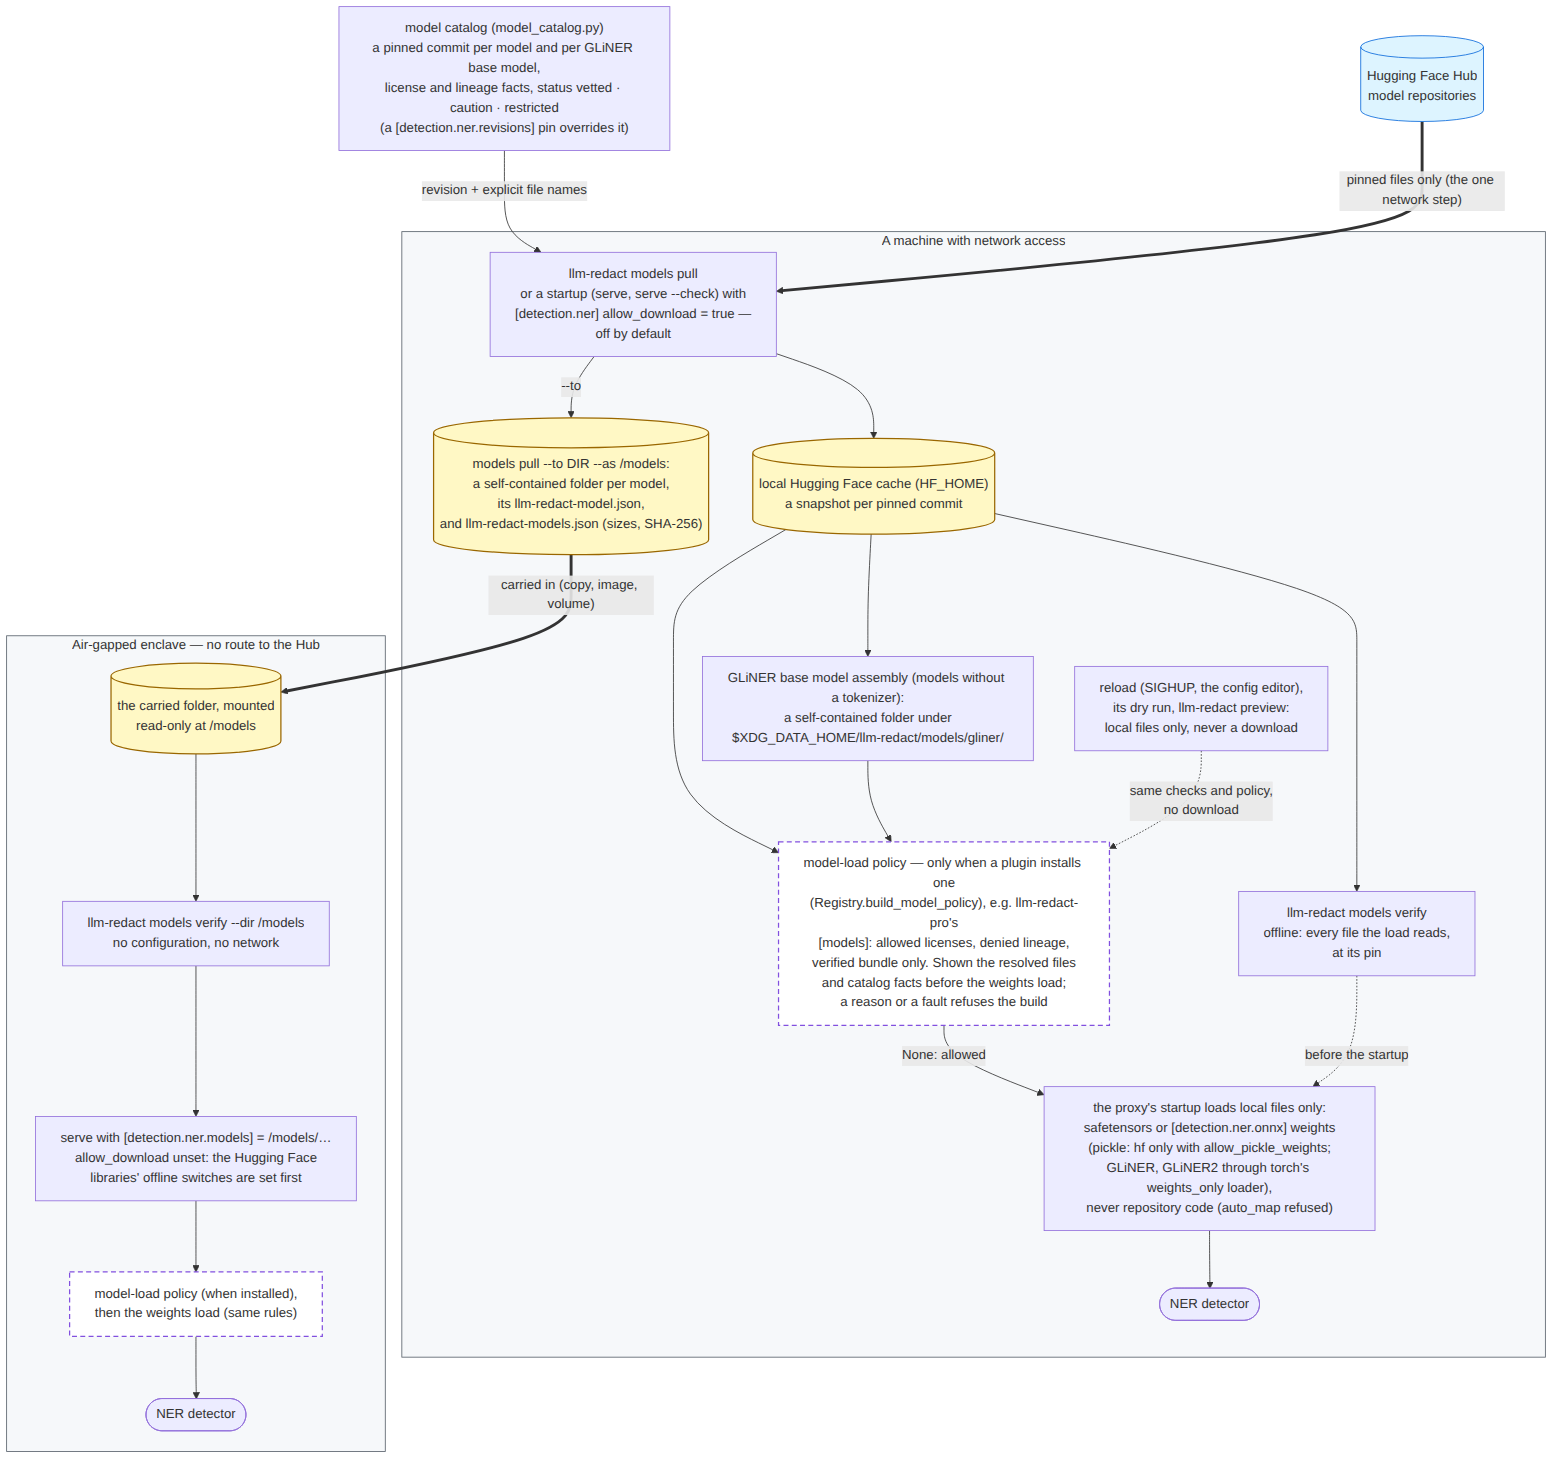
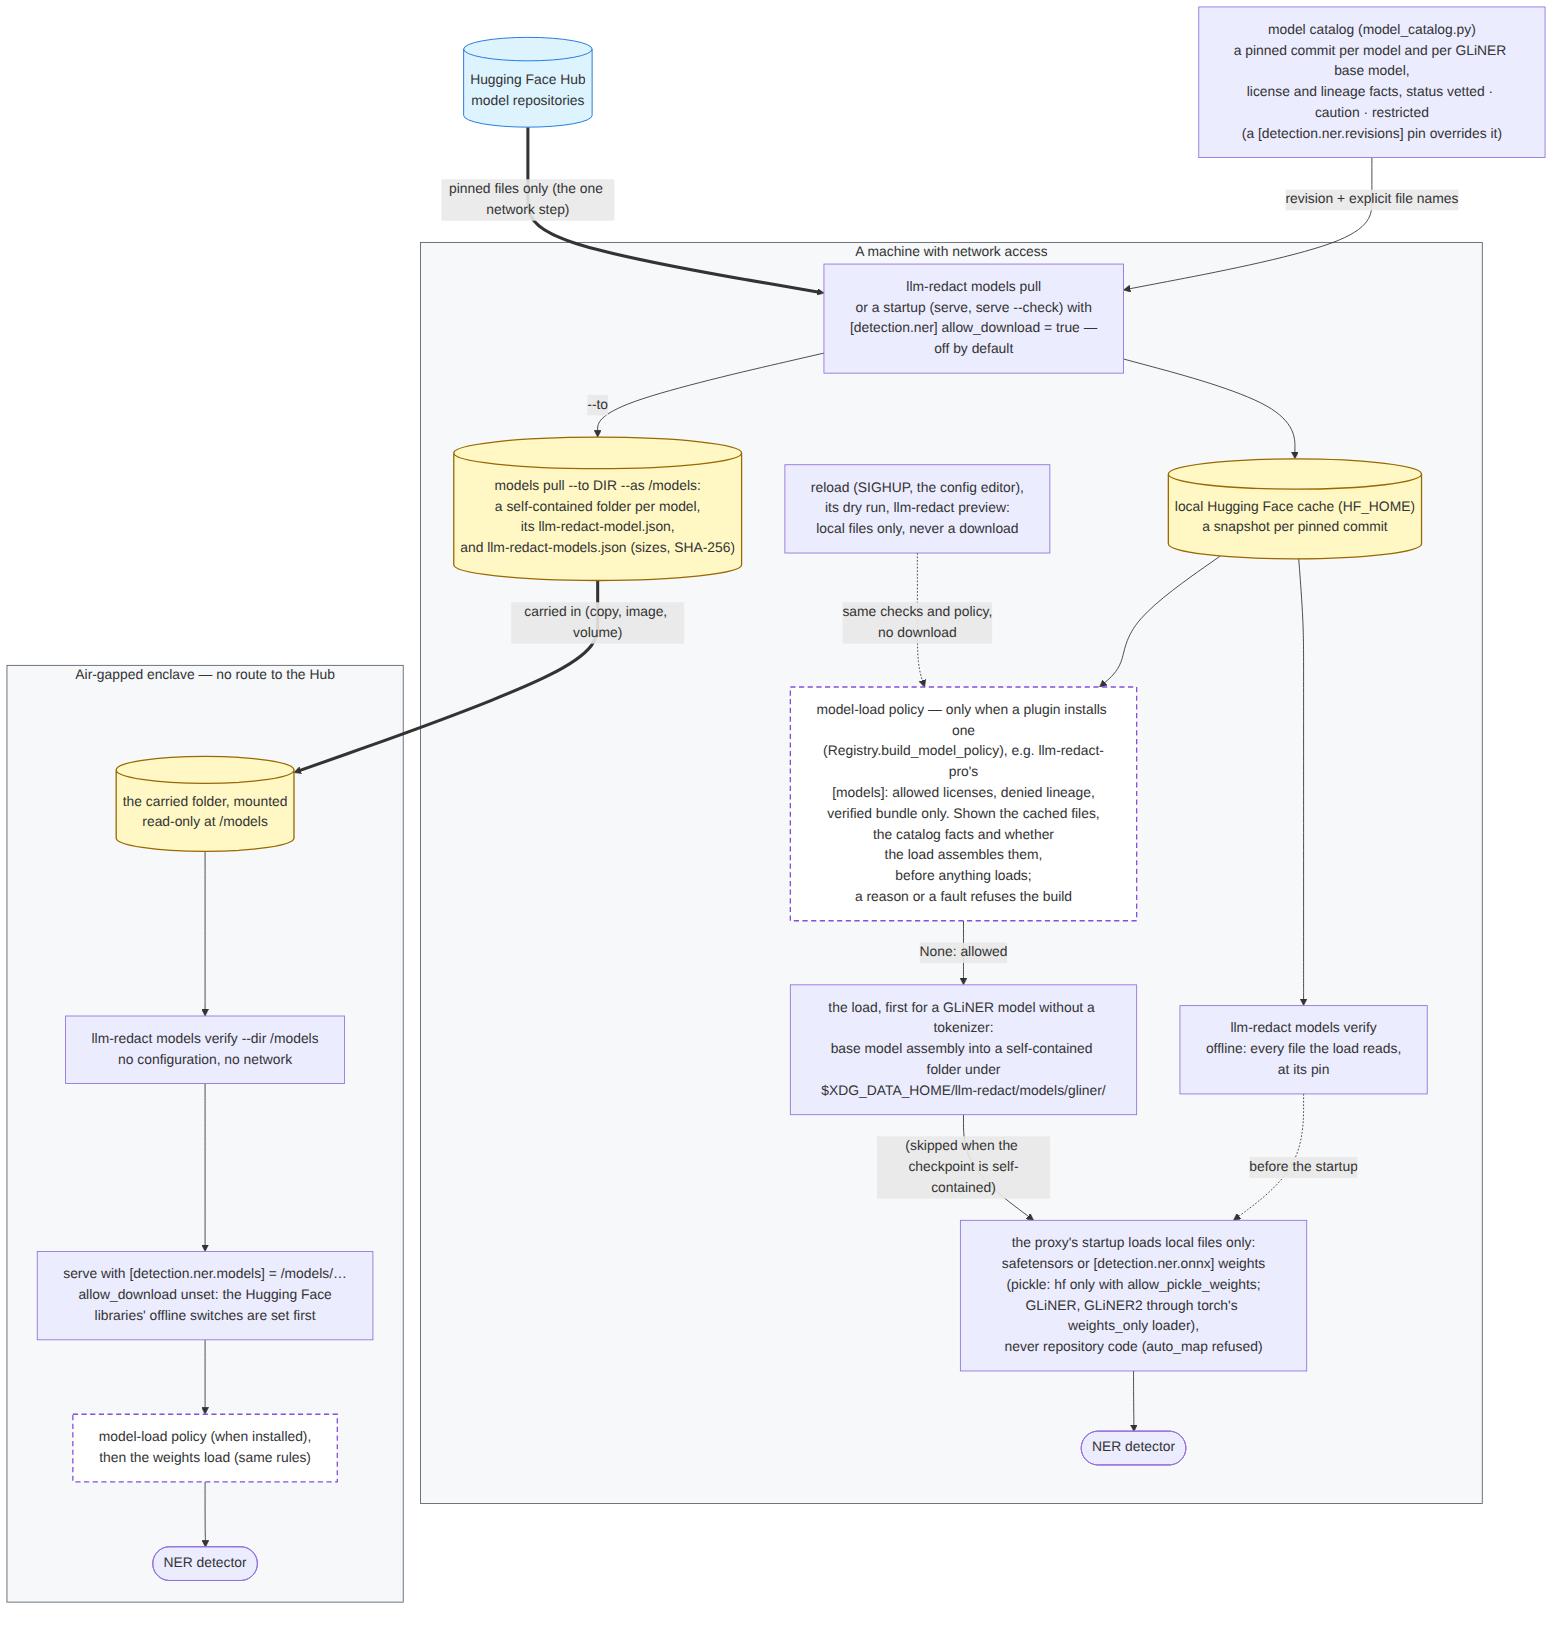
Fix: draw GLiNER base-model assembly after the model-load policy
The model-supply-chain diagram had cache --> assemble --> policy --> load,
as if the policy were shown an assembled folder. The code asks the policy
first (engine.build_detectors -> check_model_policy -> model_sources.
model_load: the cached files and an `assembled` flag), and the GLiNER
builder's loader assembles afterwards (model_files.gliner_model_dir ->
assemble_folder). The diagram now draws cache --> policy --> assemble
(skipped for a self-contained checkpoint) --> load, and the policy box
says it is shown the cached files and whether the load assembles them,
before anything loads. Re-rendered with scripts/render_diagrams.sh
(static diagram, ANIMATE=0). detection.md's alt text follows the order;
tests/test_diagram_assets.py checks the edge order in the source.

Claude-Session: https://claude.ai/code/session_01CBWJnhgyTWUvTzSoH9xDrT

diff --git a/tests/test_diagram_assets.py b/tests/test_diagram_assets.py
@@ -56,3 +56,38 @@ def test_animated_svg_and_gif(source: Path) -> None:
 def test_static_diagrams_have_no_animated_render(source: Path) -> None:
     assert not source.with_suffix(".svg").exists()
     assert not source.with_suffix(".gif").exists()
+
+
+_EDGE = re.compile(r"^\s*(\w+)\s.*(?:-->|==>|\.->)\s*(\w+)\s*$")
+
+
+def _edges(source: Path) -> dict[str, set[str]]:
+    graph: dict[str, set[str]] = {}
+    for line in source.read_text(encoding="utf-8").splitlines():
+        if (match := _EDGE.match(line)) is not None:
+            graph.setdefault(match[1], set()).add(match[2])
+    return graph
+
+
+def _reaches(graph: dict[str, set[str]], start: str, goal: str) -> bool:
+    seen, todo = {start}, [start]
+    while todo:
+        for nxt in graph.get(todo.pop(), set()) - seen:
+            if nxt == goal:
+                return True
+            seen.add(nxt)
+            todo.append(nxt)
+    return False
+
+
+def test_the_model_load_policy_is_asked_before_assembly() -> None:
+    # engine.build_detectors asks check_model_policy (model_sources.model_load:
+    # the cached files and an `assembled` flag) BEFORE the builder's loader
+    # (model_files.gliner_model_dir -> assemble_folder) assembles a GLiNER
+    # base model: assembly sits on the load side of the policy.
+    graph = _edges(DIAGRAMS / "model-supply-chain.mmd")
+    assert _reaches(graph, "cache", "policy")
+    assert _reaches(graph, "policy", "assemble")
+    assert _reaches(graph, "assemble", "load")
+    assert not _reaches(graph, "assemble", "policy")
+    assert "assemble" not in graph["cache"]

diff --git a/docs/detection.md b/docs/detection.md
@@ -159,7 +159,7 @@ same way — the survey behind the lineup is
 
 ### Model sources: pinned revisions, downloads and pickle weights
 
-![Flowchart of where NER model weights come from: the model catalog's pins and the Hugging Face Hub feed llm-redact models pull (or a startup with allow_download = true), which fills the local Hugging Face cache; GLiNER base models are assembled into a local folder; models verify checks the files offline; a model-load policy, when a plugin installs one (llm-redact-pro's [models]), is asked before the weights load and may refuse the build; the startup loads local files only (safetensors or ONNX, never repository code) and reloads never download. Beside it the air-gap path: models pull --to writes portable folders with a SHA-256 manifest, which are carried into the enclave, checked with models verify --dir and loaded with downloads off](diagrams/model-supply-chain.png)
+![Flowchart of where NER model weights come from: the model catalog's pins and the Hugging Face Hub feed llm-redact models pull (or a startup with allow_download = true), which fills the local Hugging Face cache; models verify checks the files offline; a model-load policy, when a plugin installs one (llm-redact-pro's [models]), is shown the cached files before anything loads and may refuse the build; once allowed, the load assembles a GLiNER base model into a local folder when the checkpoint needs one, and the startup loads local files only (safetensors or ONNX, never repository code) and reloads never download. Beside it the air-gap path: models pull --to writes portable folders with a SHA-256 manifest, which are carried into the enclave, checked with models verify --dir and loaded with downloads off](diagrams/model-supply-chain.png)
 
 *Static diagram. [Mermaid source](diagrams/model-supply-chain.mmd).*
 
